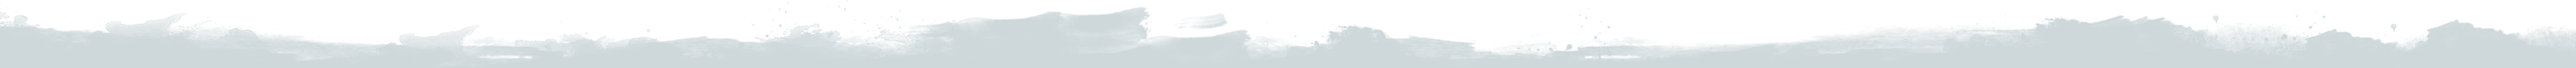
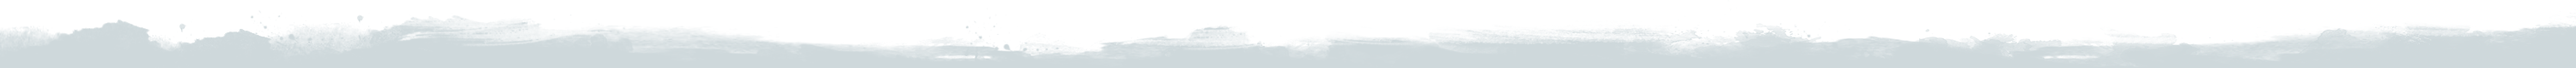
contenedores listo en escritorio

diff --git a/index.html b/index.html
@@ -13,7 +13,7 @@
         <div class="container">
             <div class="row">
                 <div class="col-6">
-                    <h1>Desafío del Amor en la Mujer</h1>
+                    <h1><b>Desafío del Amor en la Mujer</b></h1>
                     <p>t vero eos et accusamus et iusto odio dignissimos ducimus qui blanditiis praesentium voluptatum deleniti atque  t vero eos et accusamus et iusto odio dignissimos ducimus qui blanditiis praesentium voluptatum deleniti atque </p>
                     <div class="row">
                         <div class="col logoNahil"><img src="images/Logo-NN-FondoTransparente-09.png" alt=""></div>
@@ -63,13 +63,13 @@
                 </div>
         </div>
         </div>
-    <img src="images/1.png" class="separador d-flex align-self-end">
+    <img src="images/separador_azul.png" class="separador d-flex align-self-end">
     </header>
     <div id="descripcion_webinar" class="hidden_contenedor">
         <div class="container" >
             <div class="row justify-content-center espacio_bajo">
                 <div class="col-9">
-                    <h1 class="text-center">En el webinar:</h1>
+                    <h1 class="text-center"><b>En el webinar:</b></h1>
                     <ul class="lista">
                         <li class="liston_pintura"><spam>1</spam>t vero eos et accusamus et iusto odio dignissimos ducimus</li>
                         <li class="liston_pintura"><spam>2</spam>t vero eos et accusamus et iusto odio dignissimos ducimus</li>
@@ -85,8 +85,8 @@
         <div class="container">
             <div class="row justify-content-center espacio_bajo">
                 <div class="col-6">
-                    <h1>Al suscribirte al Programa recibirás</h1>
-                    <p class="text-justify">At vero eos et accusamus et iusto odio dignissimos ducimus qui blanditiis praesentium voluptatum deleniti atque corrupti quos dolores et quas molestias excepturi sint occaecati cupiditate non provident, similique sunt in culpa qui officia deserunt mollitia animi, id est laborum et dolorum fuga.</p>
+                    <h1><b>Al suscribirte al Programa recibirás</b></h1>
+                    <p class="text-justify">At vero eos et accusamus et iusto odio dignissimos ducimus qui blanditiis praesentium voluptatum deleniti atque corrupti quos dolores et quas molestias excepturi sint occaecati cupiditat</p>
                 </div>
                 <div class="col-6">
                     <img src="images/regalo.png" alt="" id="regalo" class="mx-auto d-block">
@@ -99,29 +99,29 @@
         <div class="container">
             <div class="row d-flex justify-content-between espacio_bajo">
                 <div class="col-12">
-                    <h1 class="text-center">Facilitadoras del Programa</h1>
+                    <h1 class="text-center"><b>Facilitadoras del Programa</b></h1>
                 </div>
                 <div class="col-6">
                     <img src="images/nahil.png" alt="" class="facilitadora-img mx-auto d-block">
-                    <h1 class="text-center">Nahil Nuñez</h1>
+                    <h1 class="text-center"><spam>N</spam>ahil <spam>N</spam>uñez</h1>
                     <h2 class="text-center">Directora ILC Academy</h2>
                     <h3 class="text-center">Master Family Coach</h3>
                 </div>
                 <div class="col-6">
                     <img src="images/maria.png" alt="" class="facilitadora-img mx-auto d-block">
-                    <h1 class="text-center">Alexandra Duque</h1>
+                    <h1 class="text-center"><spam>A</spam>lexandra <spam>D</spam>uque</h1>
                     <h2 class="text-center">Directora ILC Academy</h2>
                     <h3 class="text-center">Master Practitioner PNL</h3>
                 </div>
             </div>
         </div>
-        <img src="images/4.png" class="separador d-flex align-self-end">
+        <img src="images/separador_azul.png" class="separador d-flex align-self-end">
     </div>
     <div id="continuum_ilc" class="dark hidden_contenedor">
         <div class="container">
             <div class="row espacio_bajo">
                 <div class="col-6">
-                    <h1>Programa de Coaching Continuum</h1>
+                    <h1><b>Programa de Coaching Continuum</b></h1>
                     <p>Es un espacio amplio de compartir herramientas para que todas las semanas puedas tener lecciones, aprendizajes y dsitinciones para ser mejor Coach. Es un lugar donde podrás conocer nuevas tendencias y repasar herramientas que ya posees.</p>
                 </div>
                 <div class="col-6">
@@ -134,7 +134,7 @@
         <div class="container">
           <div class="row espacio_bajo">
           <div class="col-12">
-              <h1>Testimoniales</h1>
+              <h1><b>Testimoniales</b></h1>
           </div>
            <div class="w-100"></div>
             <div class="col-4">
@@ -148,13 +148,13 @@
             </div>
           </div>
         </div>
-    <img src="images/6.png" class="separador d-flex align-self-end">
+    <img src="images/separador_salmon.png" class="separador d-flex align-self-end">
     </div>
     <div id="liston_unirte" class="primary" class="hidden_contenedor">
         <div class="container">
             <div class="row espacio_bajo">
                 <div class="col-12">
-                    <h1>¿Alguna vez haz tenido algún desafío en el Amor?</h1>
+                    <h1><b>¿Alguna vez haz tenido algún desafío en el Amor?</b></h1>
                     <h2>Que esperas para registrarte</h2>
                 </div>
             </div>
@@ -177,7 +177,6 @@
             </div>
         </div>
     </footer>
-
     <script defer src="js/fontawesome5.0.10/svg-with-js/js/fontawesome-all.min.js"></script>
     <script src="js/contador.js"></script>
     <script src="js/jquery-3.3.1.min.js"></script>

diff --git a/css/styles.css b/css/styles.css
@@ -13,7 +13,7 @@ h2,h3{
 p {
     font-family: 'Roboto', sans-serif;
     font-size: 20px;
-    color:#ced8db;
+    color:#fff;
 }
 
 .btn-outline-primary:hover {
@@ -53,7 +53,7 @@ p {
   color:#d35a52;
 }
 .light h1,.light h2,.ligth h3,.light h4,.light h5,.light h6{
-    color: #83b8cf;
+    color: #5da2c0;
 }
 .dark h1,.dark h2,.dark h3,.dark h4,.dark h5,.dark h6{
     color: #f3d175;
@@ -146,11 +146,20 @@ height: 10px;
     height: 300px;
     width: 300px;
 }
+
+#descripcion_regalo p{
+    color: #efeeee;
+}
+
+#descripcion_regalo .row{
+    margin-top: 55px;
+}
+
 /*Facilitadoras*/
 #facilitadoras{
     padding: 0 0 0 0;
     background-color: #ced8db;
-    background-image: url("../images/separador_gris.png");
+    background-image: url("../images/fondo_gris.png");
     background-repeat: no-repeat;
     background-size: cover;
     background-position: top;    
@@ -159,6 +168,11 @@ height: 10px;
     width: 300px;
     height: 290px;
 }
+
+#facilitadoras h1 spam, #facilitadoras h1 b{
+    color:#d35a52;
+}
+
 /*Descripcion Programa continuum*/
 #continuum_ilc{
   padding: 0 0 0 0;
